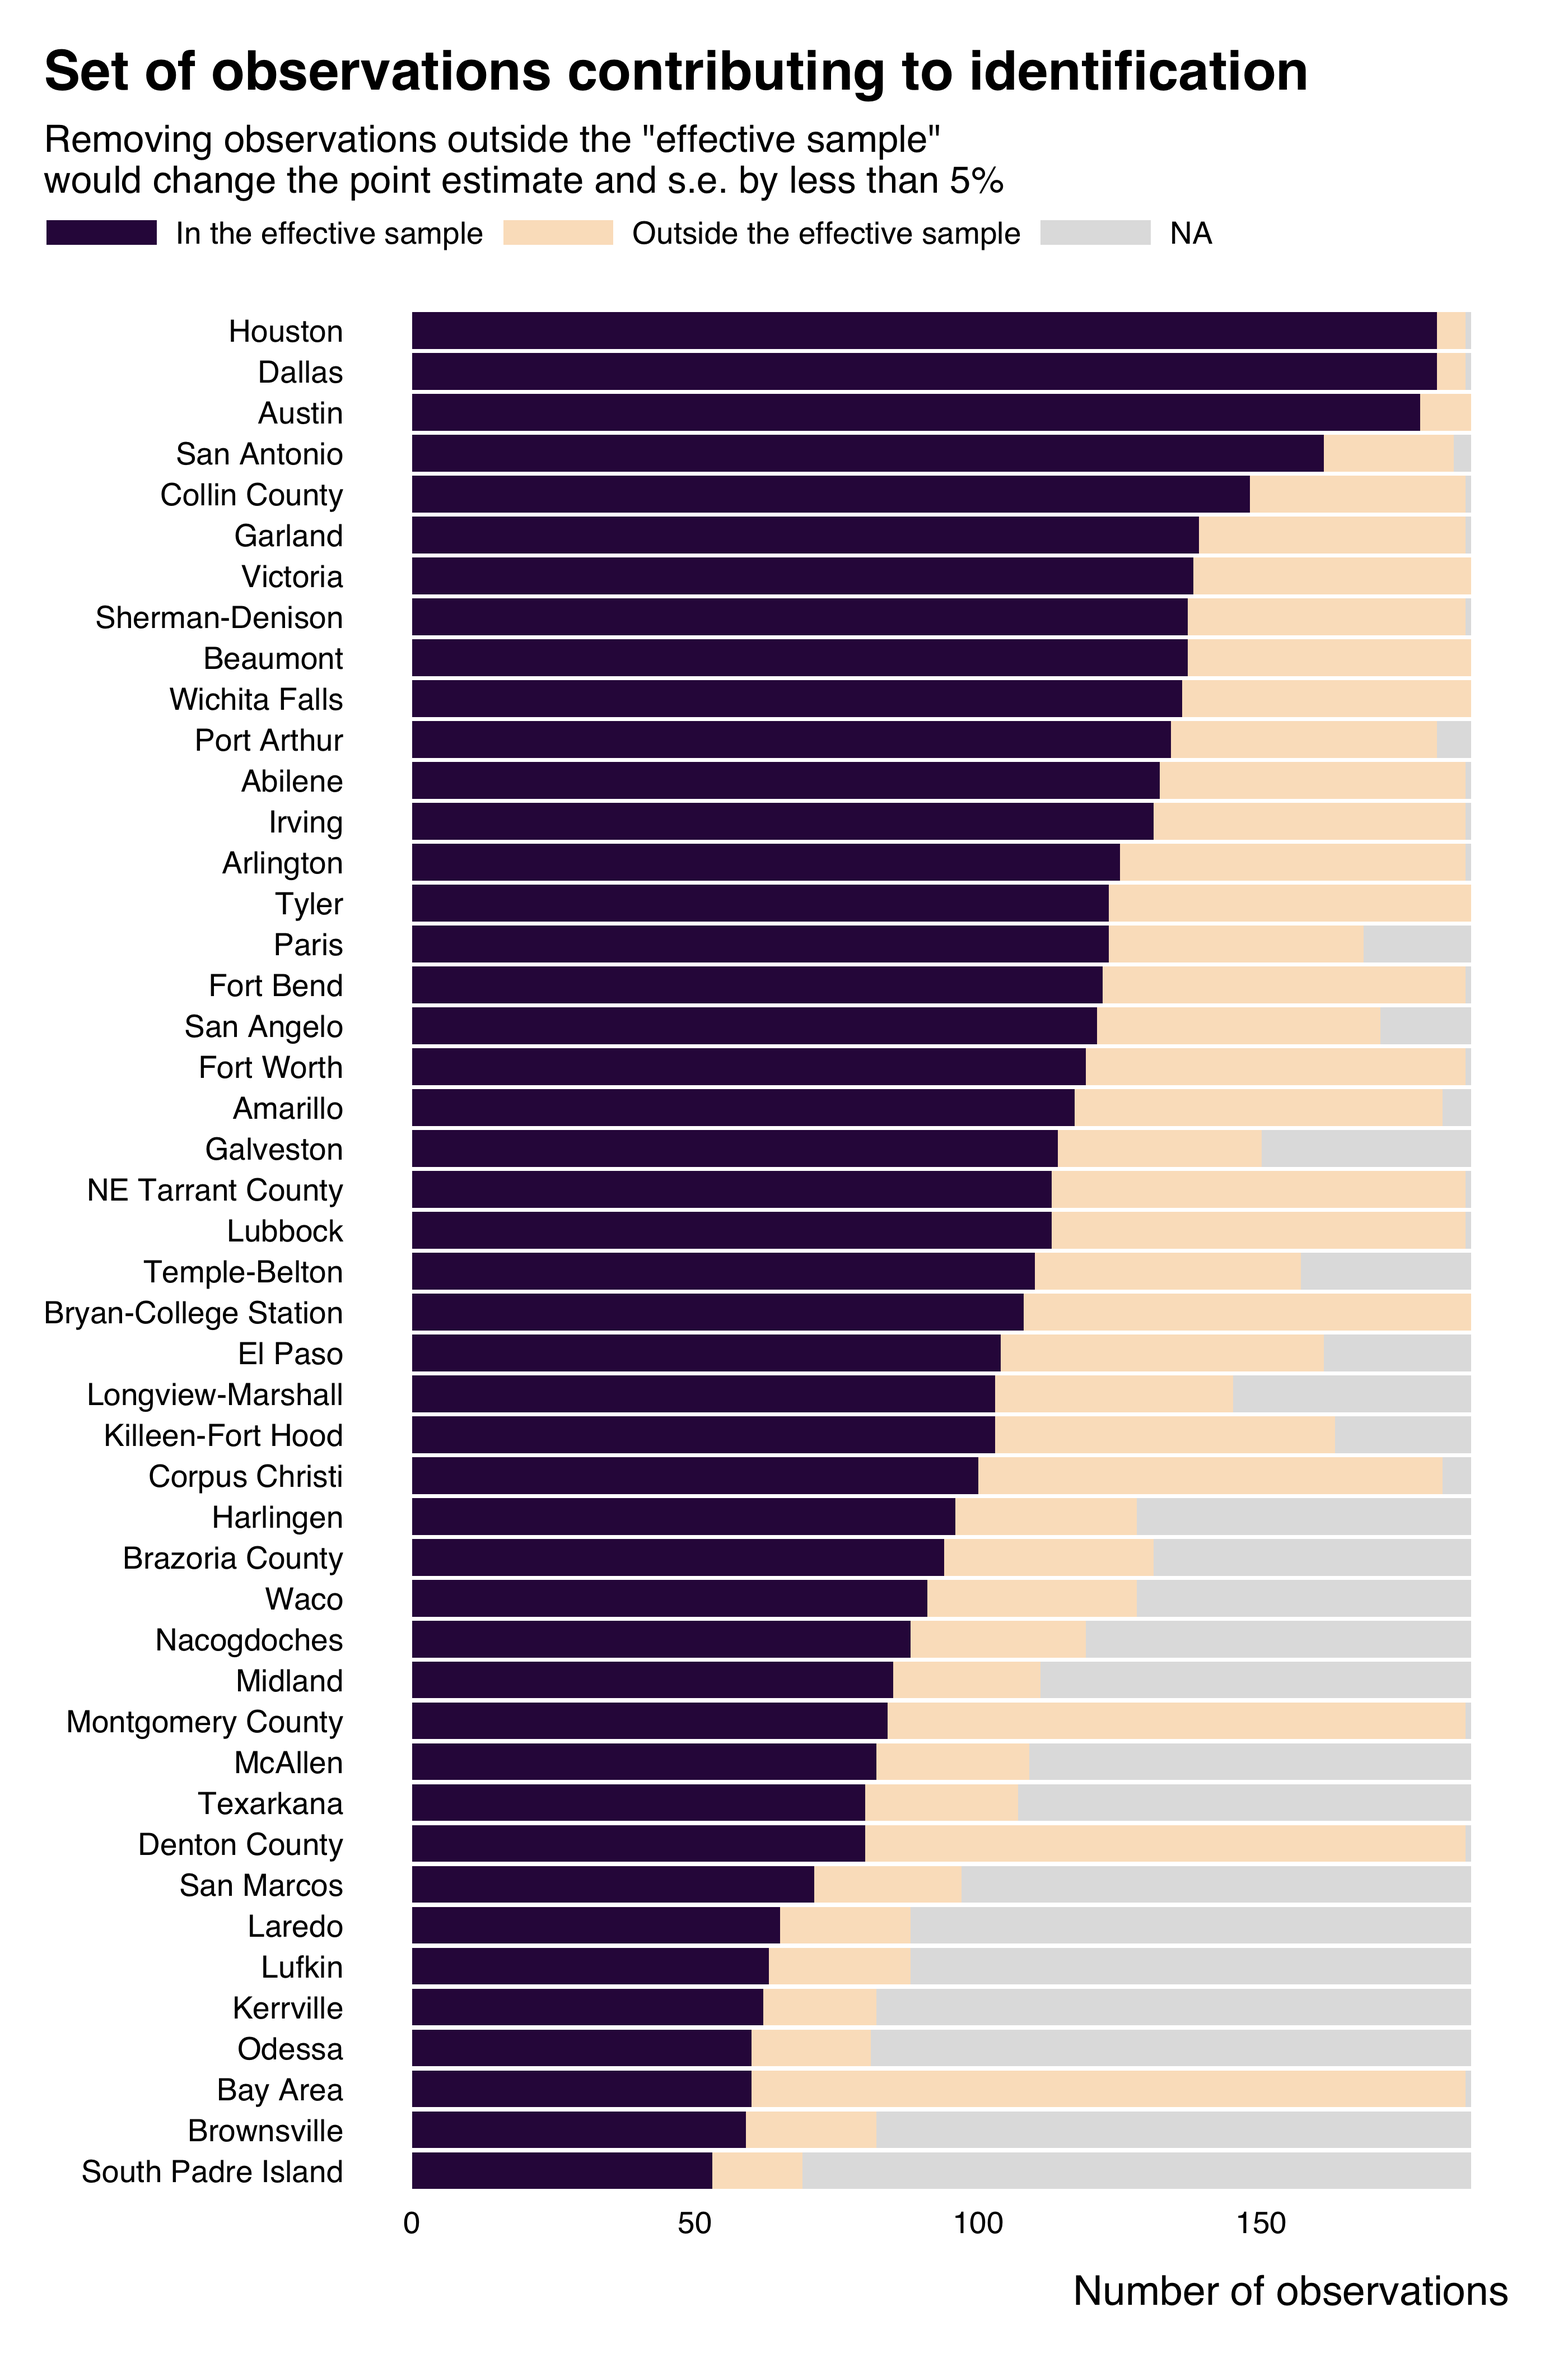
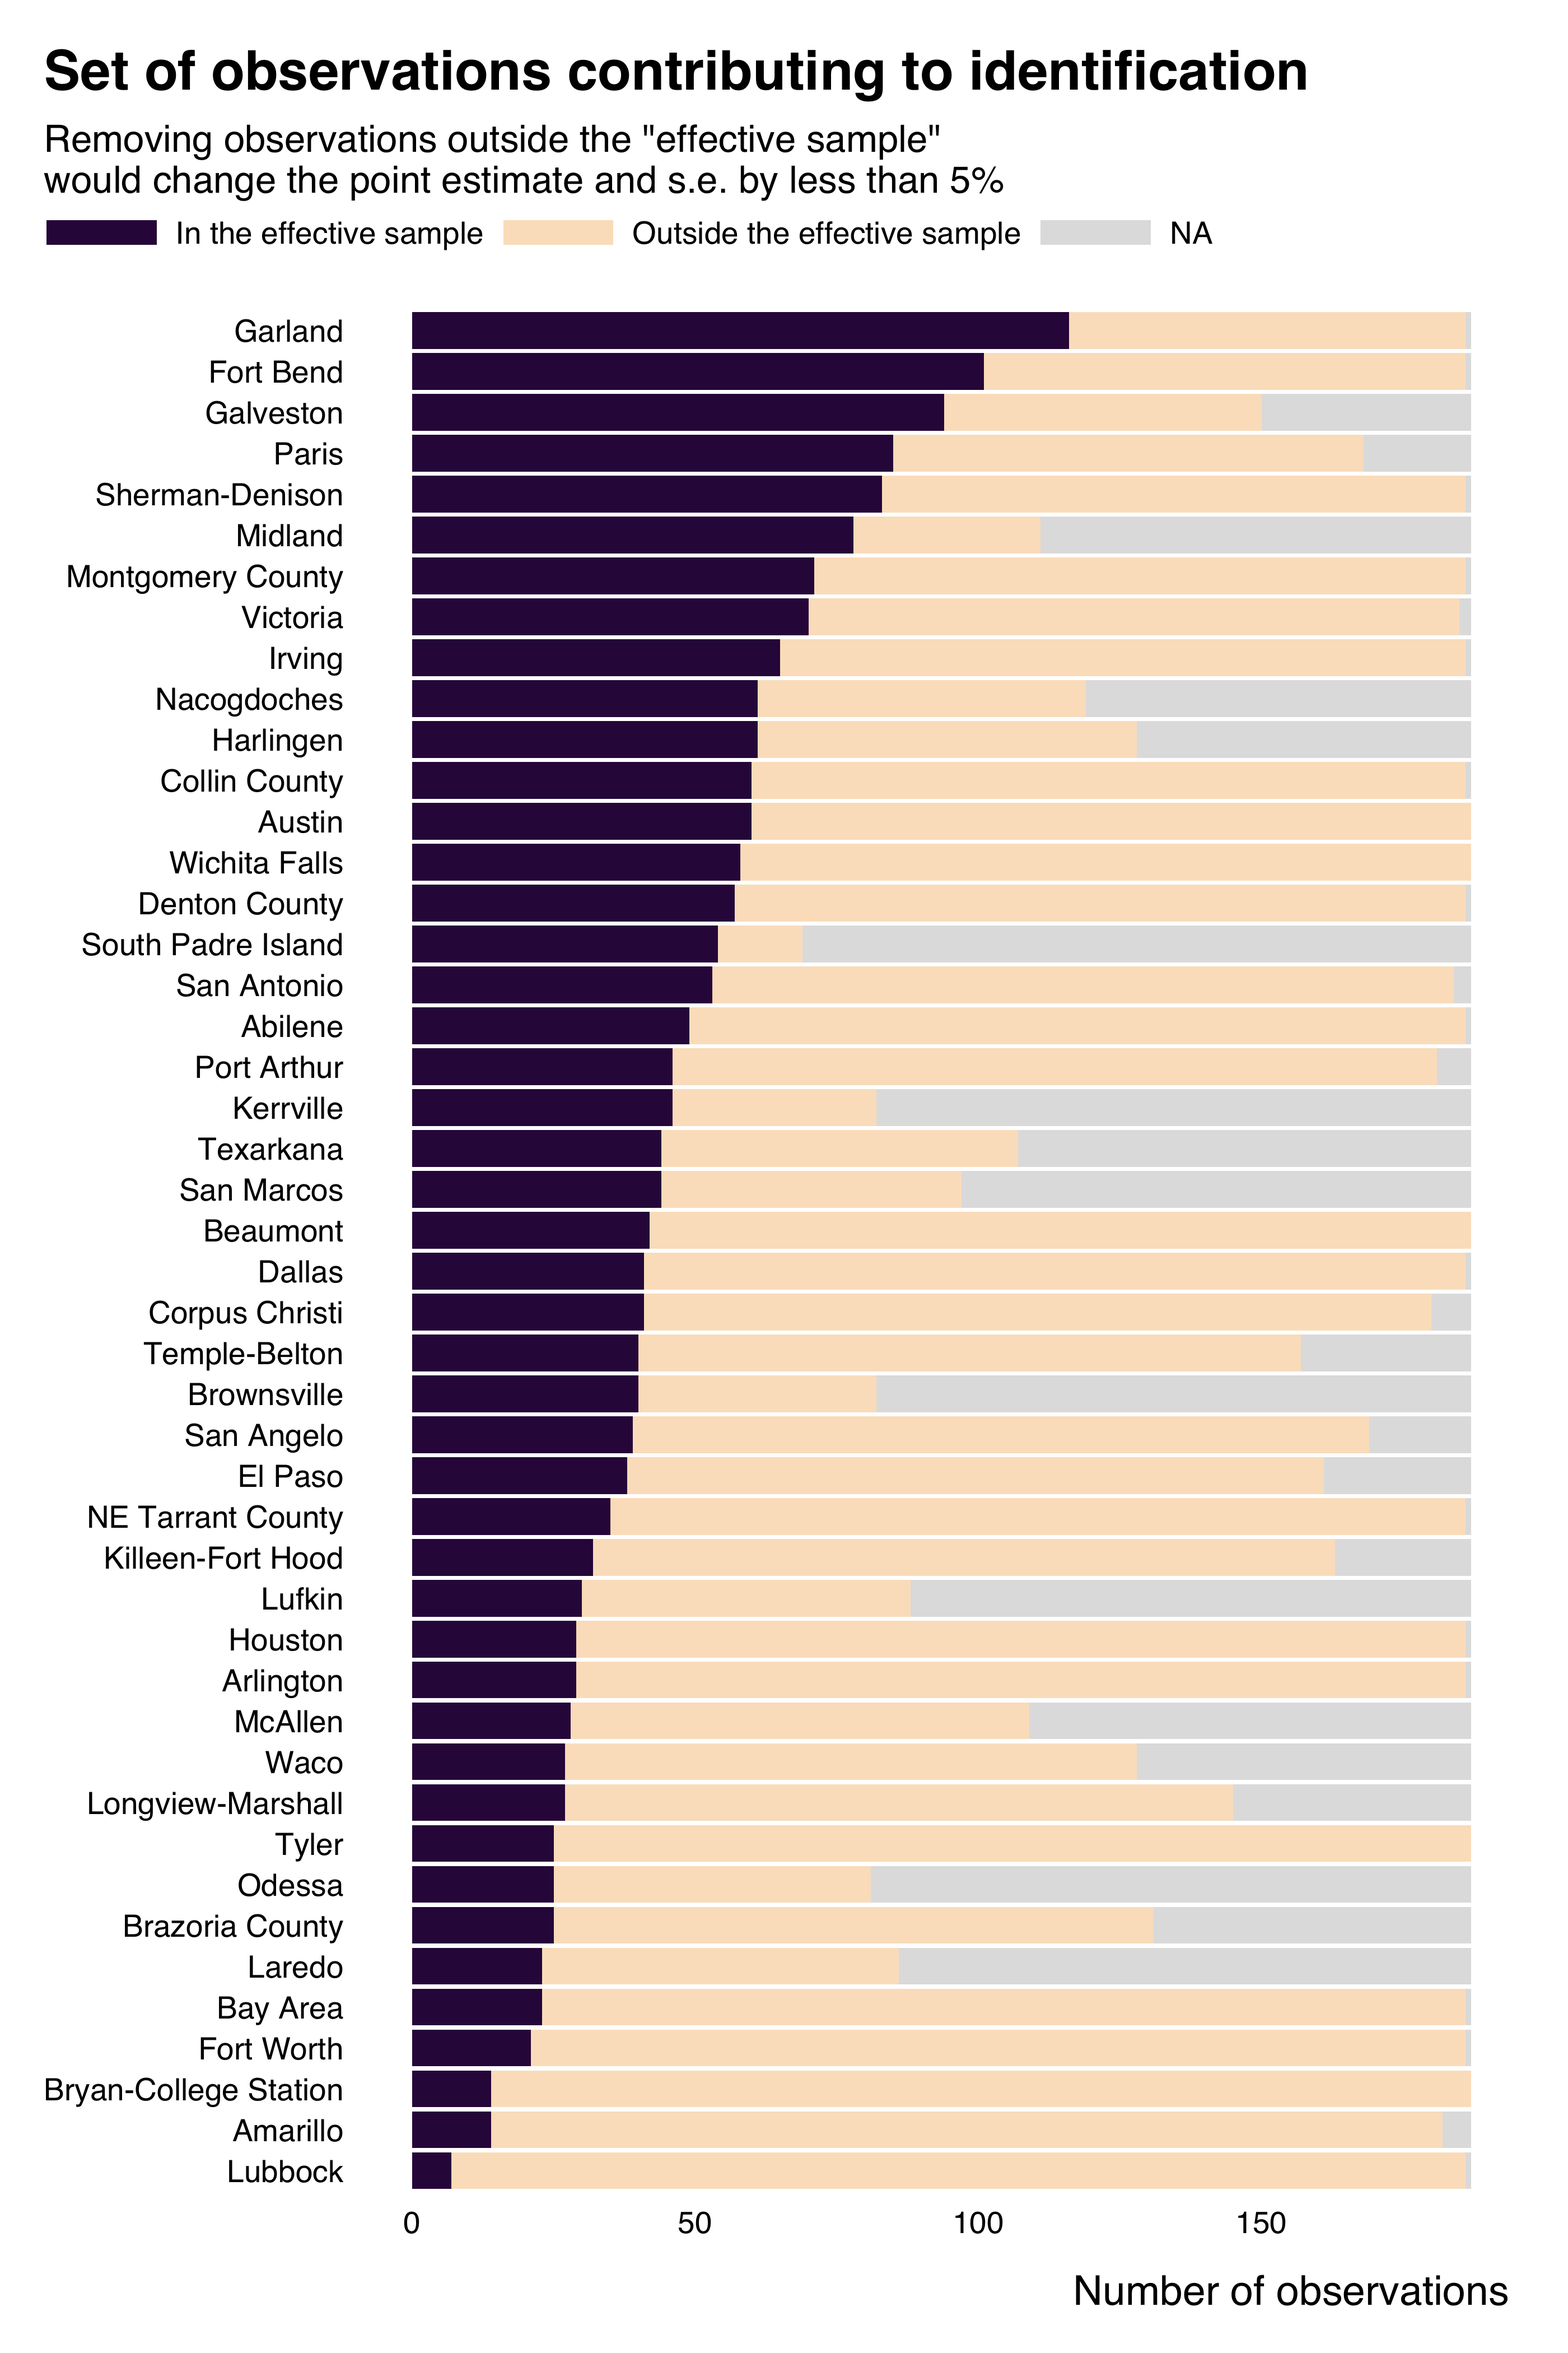
Changing examples txhousing

diff --git a/README.md b/README.md
@@ -42,19 +42,20 @@ library(ididvar)
 library(ggplot2)
 
 reg_ex_fixest <- ggplot2::txhousing |>
-  fixest::feols(fml = volume ~ sales + listings |  as.factor(date) + city)
+  dplyr::mutate(l_sales = log(sales)) |> 
+  fixest::feols(fml = l_sales ~ median + listings | year + city, vcov = "twoway")
 
-idid_weights(reg_ex_fixest, "sales") |>
+idid_weights(reg_ex_fixest, "median") |>
   head()
-#> [1] 9.955586e-05 3.237369e-05 3.690329e-06 6.079059e-06 2.013290e-10
-#> [6] 4.469283e-07
+#> [1] 1.417497e-05 5.163932e-05 5.908480e-05 1.918702e-06 7.089139e-08
+#> [6] 7.372159e-09
 ```
 
 The package also allows for an effortless exploration of these weights
 through visualizations.
 
 ``` r
-idid_viz_weights(reg_ex_fixest, "sales", date, city, order = "y") +
+idid_viz_weights(reg_ex_fixest, "median", year, city, order = "y") +
   ggplot2::labs(x = NULL, y = NULL) 
 ```
 
@@ -65,7 +66,7 @@ variation comes from a few cities: Houston, Dallas, Austin and San
 Antonio.
 
 ``` r
-idid_viz_cumul(reg_ex_fixest, "sales")
+idid_viz_cumul(reg_ex_fixest, "median")
 ```
 
 <img src="man/figures/README-plot_cumul-1.png" width="80%" style="display: block; margin: auto;" />
@@ -75,8 +76,20 @@ contribute to identification (in the sense that dropping the other
 observations does not significantly affect the estimate obtained).
 
 ``` r
-idid_viz_contrib(reg_ex_fixest, "sales", var_y = city, order = "y") +
+idid_viz_contrib(reg_ex_fixest, "median", var_y = city, order = "y") +
   ggplot2::labs(y = NULL)
+#> Warning: The VCOV matrix is not positive semi-definite and was 'fixed' (see
+#> ?vcov).
+#> Warning: The VCOV matrix is not positive semi-definite and was 'fixed' (see
+#> ?vcov).
+#> Warning: The VCOV matrix is not positive semi-definite and was 'fixed' (see
+#> ?vcov).
+#> Warning: The VCOV matrix is not positive semi-definite and was 'fixed' (see
+#> ?vcov).
+#> Warning: The VCOV matrix is not positive semi-definite and was 'fixed' (see
+#> ?vcov).
+#> Warning: The VCOV matrix is not positive semi-definite and was 'fixed' (see
+#> ?vcov).
 ```
 
 <img src="man/figures/README-plot_contrib-1.png" width="70%" style="display: block; margin: auto;" />
@@ -87,8 +100,8 @@ vignette](articles/ididvar.html) introduces them in a concise manner,
 while also describing a typical workflow for analysis.
 
 [Online
-appendices](https://vincentbagilet.github.io/causal_exaggeration/) of
-the [associated
+appendices](https://vincentbagilet.github.io/causal_exaggeration/ididvar.html)
+of the [associated
 paper](https://vincentbagilet.github.io/causal_exaggeration/causal_exaggeration_paper.pdf)
-complements this vignette by providing a thorough example of a practical
+complements this vignette by providing an example of a practical
 implementation of an analysis using the `ididvar` package.
